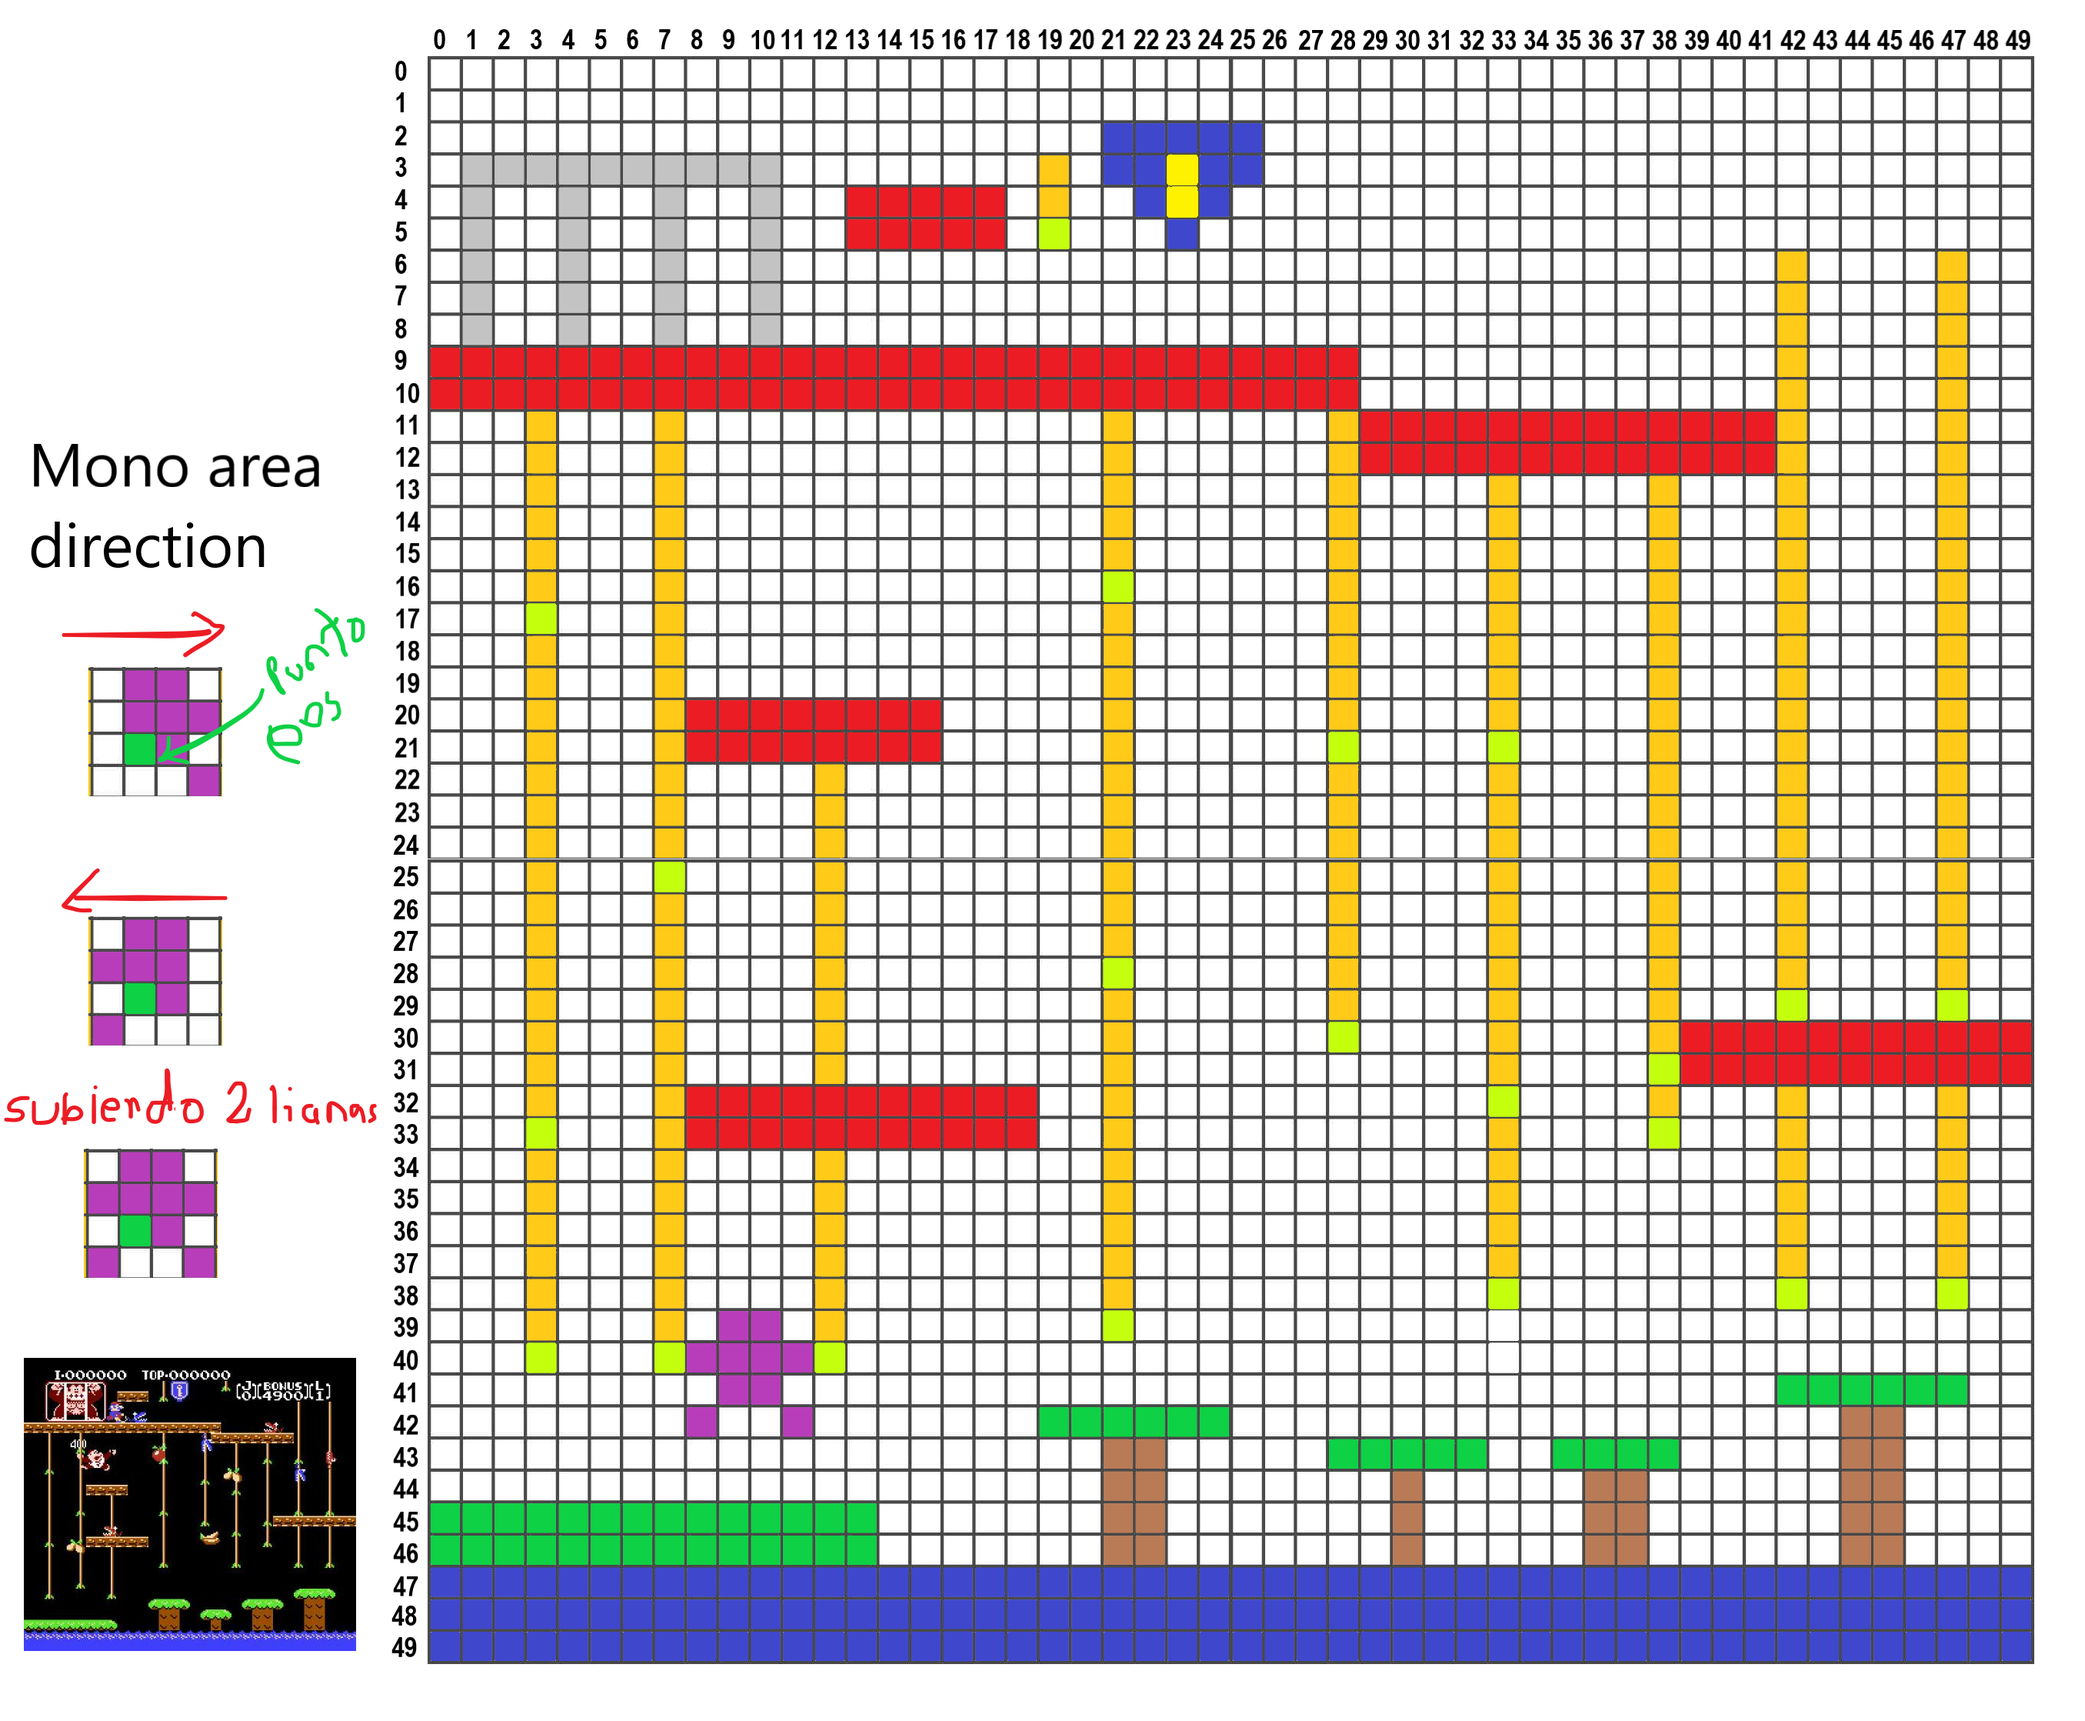
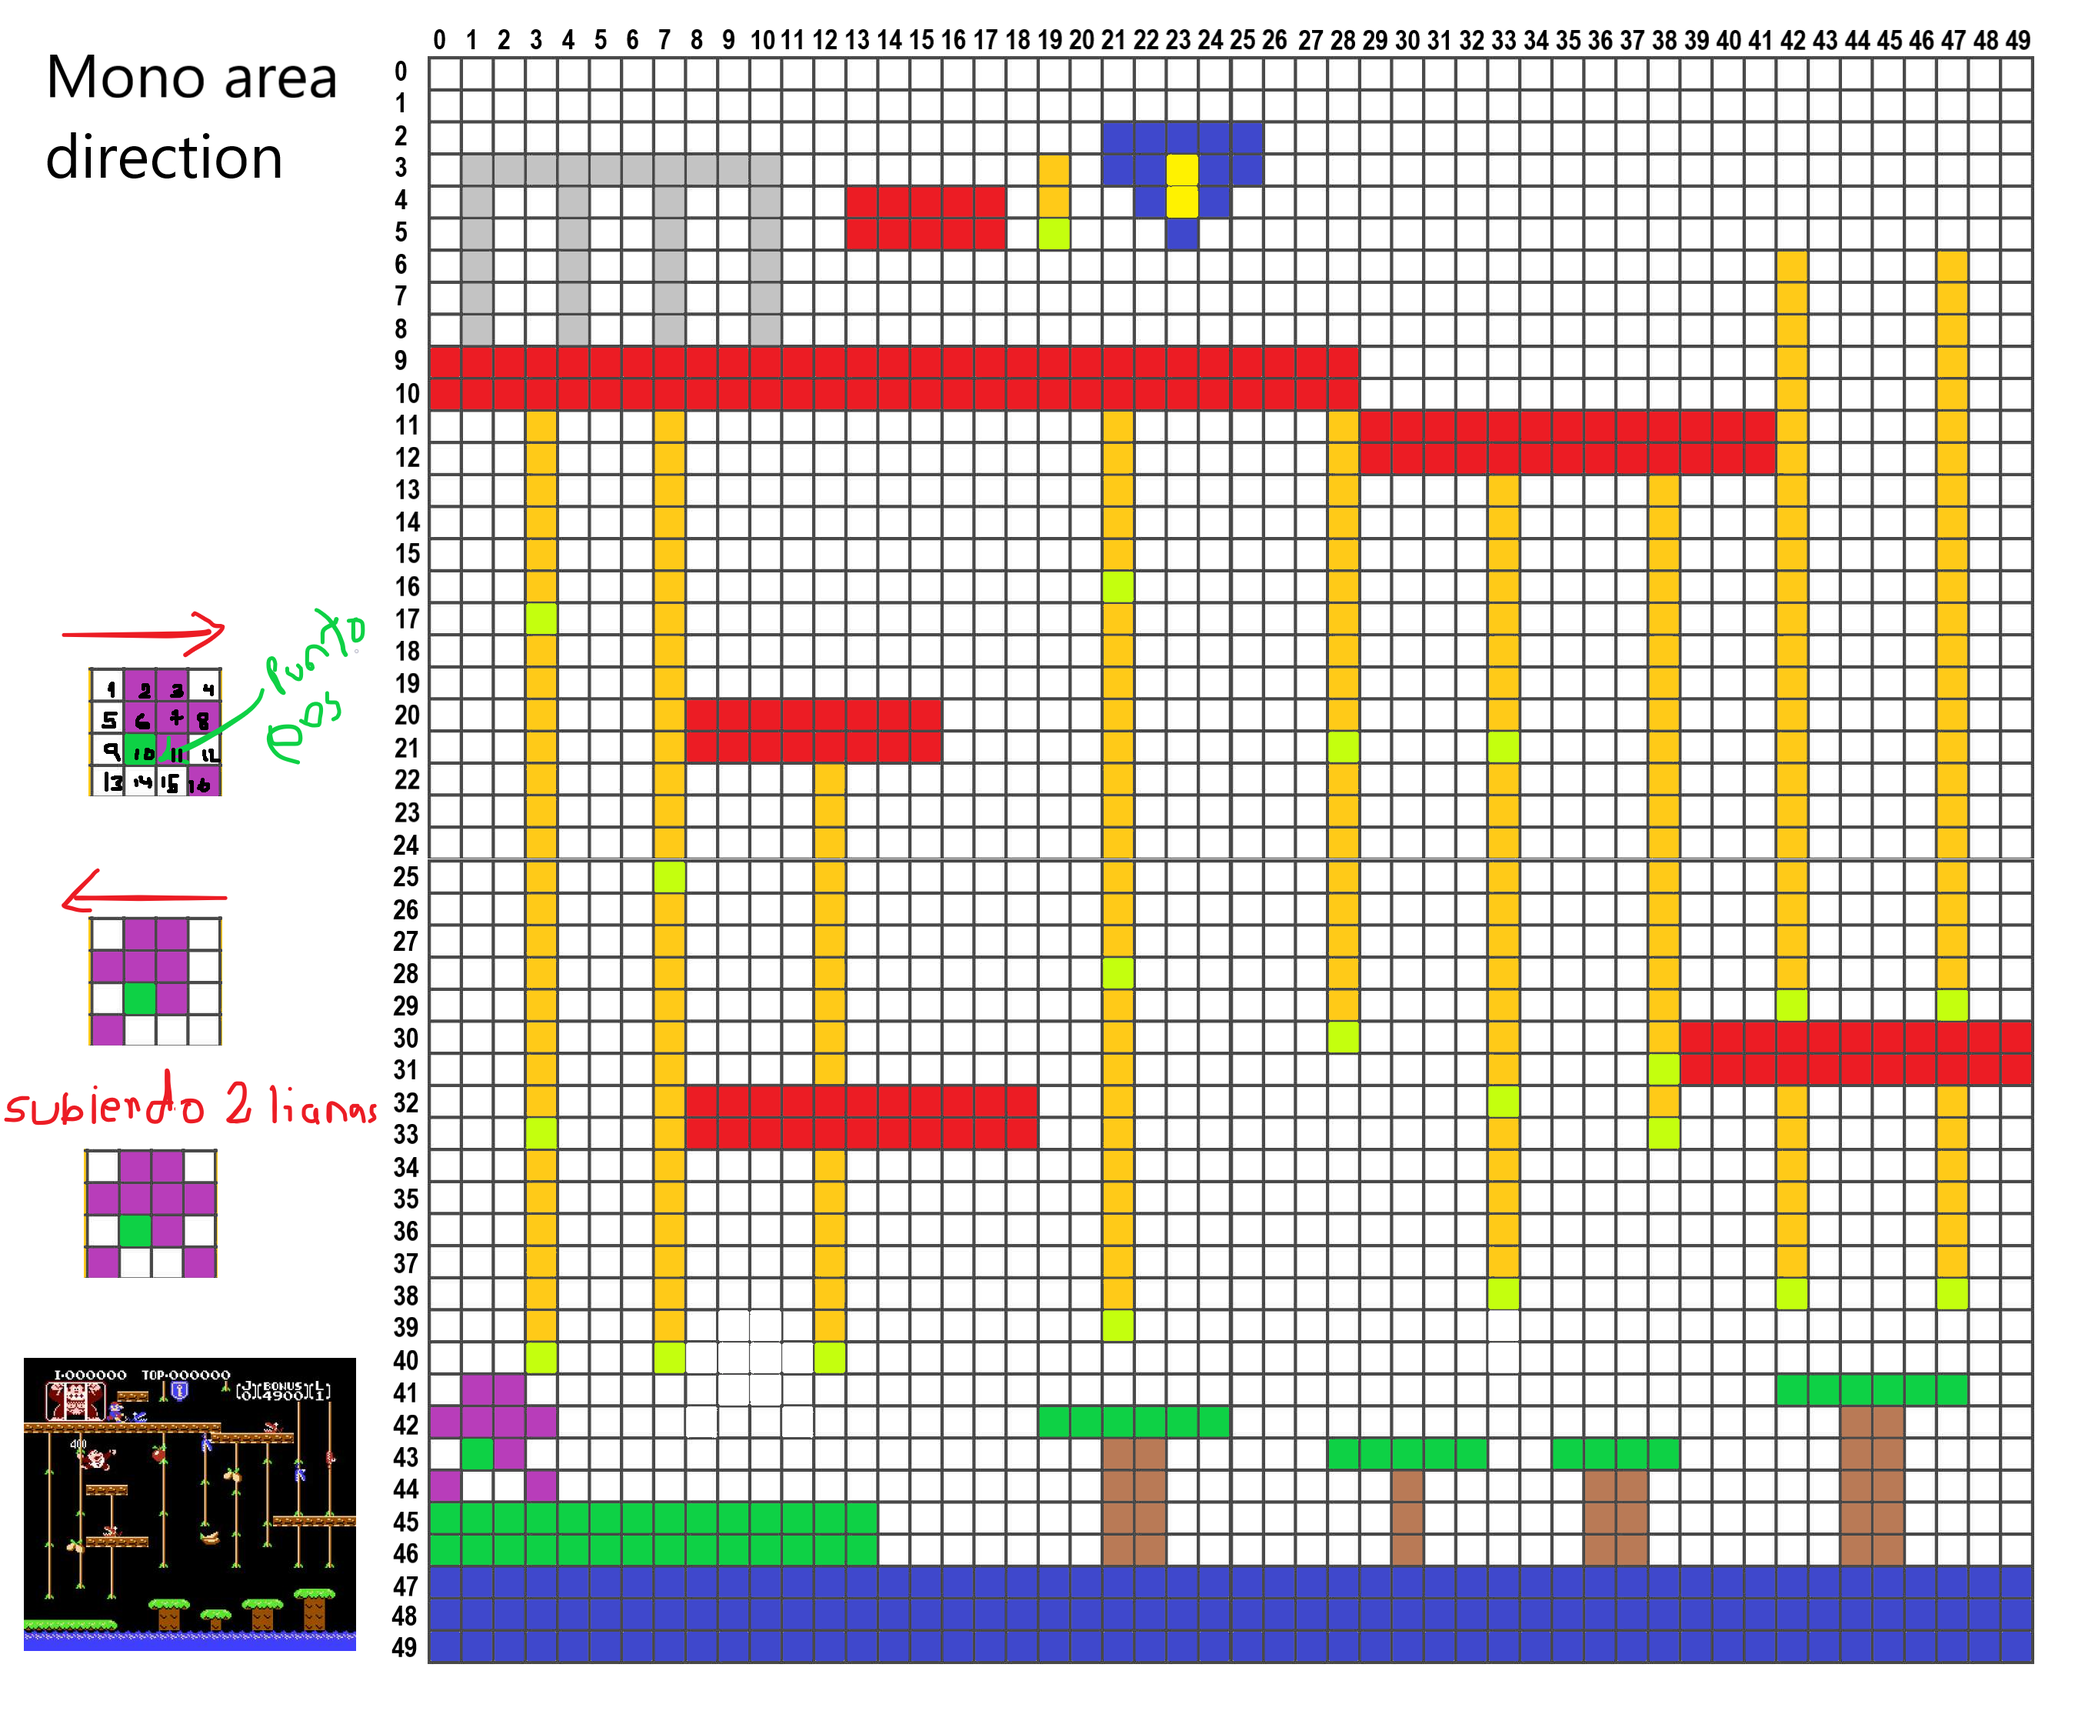
Se agrega el movimiento del mono en la matriz

diff --git a/Logica_Java/src/Models/Entidades/Movibles/Mono.java b/Logica_Java/src/Models/Entidades/Movibles/Mono.java
@@ -2,13 +2,144 @@ package Models.Entidades.Movibles;
 
 import Models.Entidades.Utils.PuntoMatriz;
 
+
+
 public class Mono extends EntidadMovible{
 
-    public Mono(String id, PuntoMatriz posicion, PuntoMatriz[] area, Direccion direccion) {
-        super(id, posicion, area, direccion);
+    private boolean isOnLiana;
+    private boolean isOnTwoLianas;
+    public static int TAMANO_AREA = 16;
+
+    public Mono(String id, PuntoMatriz posicion, Direccion direccion) {
+        super(id, posicion, new PuntoMatriz[TAMANO_AREA], direccion);
+        this.isOnLiana = false;
+        this.isOnTwoLianas = false;
     }
+
+    public void mover(Direccion direccion){
+
+        if(direccion == Direccion.DERECHA){
+            mover(new PuntoMatriz(this.posicion.getFila(), this.posicion.getColumna()+1));
+        }
+        if(direccion == Direccion.IZQUIERDA){
+            mover(new PuntoMatriz(this.posicion.getFila(), this.posicion.getColumna()-1));
+        }
+        if(direccion == Direccion.ARRIBA){
+            mover(new PuntoMatriz(this.posicion.getFila()-1, this.posicion.getColumna()));
+        }
+        if(direccion == Direccion.ABAJO){
+            mover(new PuntoMatriz(this.posicion.getFila()+1, this.posicion.getColumna()));
+        }
+
+    }
+
+    @Override
+    void actualizarDireccion(PuntoMatriz nuevaPosicion) {
+        //Izquierda o derecha
+        if(this.posicion.getFila() == nuevaPosicion.getFila()){
+            // Derecha
+            if(this.posicion.getColumna() < nuevaPosicion.getColumna()){
+                this.direccion = Direccion.DERECHA;
+            }else{ // Izquierda
+                this.direccion = Direccion.IZQUIERDA;
+            }
+        }
+    }
+
     @Override
     public void actualizarArea() {
 
+        // Centro del cuerpo
+        this.area[5] = new PuntoMatriz(this.posicion.getFila()-1,this.posicion.getColumna());
+        this.area[6] = new PuntoMatriz(this.posicion.getFila()-1,this.posicion.getColumna()+1);
+        this.area[9] = this.posicion;
+        this.area[10] = new PuntoMatriz(this.posicion.getFila(),this.posicion.getColumna()+1);
+        // cabeza
+        this.area[1] = new PuntoMatriz(this.posicion.getFila()-2,this.posicion.getColumna());
+        this.area[2] = new PuntoMatriz(this.posicion.getFila()-2,this.posicion.getColumna()+1);
+
+        //Campos siempre vacios
+        //this.area[0] = null;
+        //this.area[3] = null;
+        //this.area[8] = null;
+        //this.area[11] = null;
+        //this.area[13] = null;
+        //this.area[14] = null;
+
+        //Si el mono esta apunta hacia la derecha
+        if(this.direccion == Direccion.DERECHA) {
+            actualizarDireccionDerecha();
+        }
+        //Si el mono esta apunta hacia la izquierda
+        if(this.direccion == Direccion.IZQUIERDA) {
+            actualizarDireccionIzquierda();
+        }
+        if(isOnTwoLianas){
+            actualizarDireccionIzquierda();
+            actualizarDireccionDerecha();
+        }
+    }
+
+    private void actualizarDireccionDerecha(){
+        this.area[7] = new PuntoMatriz(this.posicion.getFila()-1,this.posicion.getColumna()+2);
+        this.area[15] = new PuntoMatriz(this.posicion.getFila()+1,this.posicion.getColumna()+2);
+        this.area[4] = null;
+        this.area[12] = null;
+    }
+
+    private void actualizarDireccionIzquierda(){
+        this.area[4] = new PuntoMatriz(this.posicion.getFila()-1,this.posicion.getColumna()-1);
+        this.area[12] = new PuntoMatriz(this.posicion.getFila()+1,this.posicion.getColumna()-1);
+        this.area[7] = null;
+        this.area[15] = null;
+    }
+
+    /**#################################################################################################
+     * SETTERS AND GETTERS
+     * #################################################################################################
+     */
+
+    public boolean isOnLiana() {
+        return isOnLiana;
+    }
+
+    public void setOnLiana(boolean onLiana) {
+        isOnLiana = onLiana;
     }
 }
+
+
+
+// Cuerpo del mono
+//
+// Orden
+//
+// |0 |1 |2 |3 |
+// |4 |5 |6 |7 |
+// |8 |9 |10|11|
+// |12|13|14|15|
+//
+// Direccion derecha  ->
+//
+// |⬜|⬛|⬛|⬜|
+// |⬜|⬛|⬛|⬛|
+// |⬜|⬛|⬛|⬜|
+// |⬜|⬜|⬜|⬛|
+//
+//
+// Direccion izquierda  ->
+//
+// |⬜|⬛|⬛|⬜|
+// |⬛|⬛|⬛|⬜|
+// |⬜|⬛|⬛|⬜|
+// |⬛|⬜|⬜|⬜|
+//
+//
+// Direccion subiendo lianas
+//
+// |⬜|⬛|⬛|⬜|
+// |⬛|⬛|⬛|⬛|
+// |⬜|⬛|⬛|⬜|
+// |⬛|⬜|⬜|⬛|
+//
+//

diff --git a/Logica_Java/src/Logica/GameManager.java b/Logica_Java/src/Logica/GameManager.java
@@ -21,7 +21,7 @@ public class GameManager {
         return single_instance;
     }
 
-    private EntidadMovible donkeyKongJr;
+    private Mono donkeyKongJr;
     private EntidadEstatica donkeyKong;
     private ArrayList<Cocodrilo> cocodrilos;
     private ArrayList<Fruta> frutas;
@@ -29,25 +29,91 @@ public class GameManager {
     private EntidadEstatica[] plataformas;
 
     private Entidad[][] matriz;
+    public static int TAMANO_MATRIZ = 50;
+    public static PuntoMatriz POSICION_INICIAL = new PuntoMatriz(43,1);
 
     private GameManager(){
-        donkeyKongJr = new Mono("donkeyKongJr", null, null, null);
-        donkeyKong = new EntidadEstatica("donkeyKong", null, null, EntidadEstatica.TipoSuperficie.DONKEYKONG );
+        donkeyKongJr = new Mono("dkjr", null, null);
+        donkeyKong = new EntidadEstatica("dk", null, null, EntidadEstatica.TipoSuperficie.DONKEYKONG );
         cocodrilos =  new ArrayList<>();
         frutas = new ArrayList<>();
         lianas = new EntidadEstatica[10];
         plataformas = new EntidadEstatica[6];
-        matriz = new Entidad[50][50];
+        setCondicionesIniciales();
     }
 
     private void setCondicionesIniciales(){
-        donkeyKongJr.setPosicion(new PuntoMatriz(43,1));
-        //PuntoMatriz[] areaDonkeyKongJr = {new PuntoMatriz(44,0)}
-        //donkeyKongJr.setArea();
+        donkeyKongJr.setPosicion(POSICION_INICIAL);
+        donkeyKongJr.setDireccion(EntidadMovible.Direccion.DERECHA);
+        donkeyKongJr.actualizarArea();
+
+        actualizarMatriz();
+    }
+
+    private void actualizarMatriz(){
+        matriz = new Entidad[TAMANO_MATRIZ][TAMANO_MATRIZ];
+        actualizarMono();
+
+    }
+
+    private void actualizarMono(){
+        for(int i = 0; i < Mono.TAMANO_AREA; i++){
+            if(donkeyKongJr.getArea()[i] != null){
+                matriz[donkeyKongJr.getArea()[i].getFila()][donkeyKongJr.getArea()[i].getColumna()] = donkeyKongJr;
+            }
+        }
+    }
+
+    public void moverMono(EntidadMovible.Direccion direccion){
+        donkeyKongJr.mover(direccion);
+        actualizarMatriz();
+    }
+
+
+    public void imprimirMatriz(){
+
+        for(int i = 0; i < TAMANO_MATRIZ; i++){
+            for(int e = 0; e < TAMANO_MATRIZ; e++){
+                if(matriz[i][e] == null){
+                    System.out.print(" ⬜ ");
+                }else{
+                    System.out.print(" ⬛ ");
+                }
+            }
+            System.out.println();
+        }
+        System.out.println();
     }
 
 
 
+    public static void main(String[] args) {
 
+        GameManager gameManager = GameManager.getInstance();
+        gameManager.imprimirMatriz();
+
+        System.out.println("DERECHA");
+        for(int i = 0; i < 10; i++){
+            gameManager.moverMono(EntidadMovible.Direccion.DERECHA);
+            gameManager.imprimirMatriz();
+        }
+        System.out.println("ARRIBA");
+        for(int i = 0; i < 10; i++){
+            gameManager.moverMono(EntidadMovible.Direccion.ARRIBA);
+            gameManager.imprimirMatriz();
+        }
+        System.out.println("IZQUIERDA");
+        for(int i = 0; i < 10; i++){
+            gameManager.moverMono(EntidadMovible.Direccion.IZQUIERDA);
+            gameManager.imprimirMatriz();
+        }
+        System.out.println("ABAJO");
+        for(int i = 0; i < 10; i++){
+            gameManager.moverMono(EntidadMovible.Direccion.ABAJO);
+            gameManager.imprimirMatriz();
+        }
+
+
+    }
 
 }

diff --git a/Logica_Java/src/Models/Entidades/Movibles/Cocodrilo.java b/Logica_Java/src/Models/Entidades/Movibles/Cocodrilo.java
@@ -13,14 +13,34 @@ public class Cocodrilo extends EntidadMovible {
     protected double velocidad;
     protected TipoCocodrilo tipoCocodrilo;
 
-    public Cocodrilo(String id, PuntoMatriz posicion, PuntoMatriz[] area, Direccion direccion, double velocidad) {
-        super(id, posicion, area, direccion);
+    public Cocodrilo(String id, PuntoMatriz posicion, Direccion direccion, double velocidad) {
+        super(id, posicion, new PuntoMatriz[4], direccion);
         this.velocidad = velocidad;
     }
 
     @Override
     public void mover(PuntoMatriz nuevaPosicion) {
 
+    }
+
+    @Override
+    void actualizarDireccion(PuntoMatriz nuevaPosicion) {
+        //Izquierda o derecha
+        if(this.posicion.getFila() == nuevaPosicion.getFila()){
+            // Derecha
+            if(this.posicion.getColumna() < nuevaPosicion.getColumna()){
+                this.direccion = Direccion.DERECHA;
+            }else{ // Izquierda
+                this.direccion = Direccion.IZQUIERDA;
+            }
+        }else{ //Arriba o abajo
+            // Abajo
+            if(this.posicion.getFila() < nuevaPosicion.getFila()){
+                this.direccion = Direccion.ABAJO;
+            }else{ // Arriba
+                this.direccion = Direccion.ARRIBA;
+            }
+        }
     }
 
     @Override

diff --git a/Logica_Java/src/Models/Entidades/Movibles/EntidadMovible.java b/Logica_Java/src/Models/Entidades/Movibles/EntidadMovible.java
@@ -25,25 +25,7 @@ public abstract class EntidadMovible extends Entidad {
         actualizarArea();
     }
 
-    private void actualizarDireccion(PuntoMatriz nuevaPosicion){
-
-        //Izquierda o derecha
-        if(this.posicion.getFila() == nuevaPosicion.getFila()){
-            // Derecha
-            if(this.posicion.getColumna() < nuevaPosicion.getColumna()){
-                this.direccion = Direccion.DERECHA;
-            }else{ // Izquierda
-                this.direccion = Direccion.IZQUIERDA;
-            }
-        }else{ //Arriba o abajo
-            // Abajo
-            if(this.posicion.getFila() < nuevaPosicion.getFila()){
-                this.direccion = Direccion.ABAJO;
-            }else{ // Arriba
-                this.direccion = Direccion.ARRIBA;
-            }
-        }
-    }
+    abstract void actualizarDireccion(PuntoMatriz nuevaPosicion);
 
     public abstract void actualizarArea();
 

diff --git a/Logica_Java/src/Models/Entidades/Movibles/Fruta.java b/Logica_Java/src/Models/Entidades/Movibles/Fruta.java
@@ -12,10 +12,15 @@ public class Fruta extends EntidadMovible{
     private double puntos;
     private TipoFruta tipoFruta;
 
-    public Fruta(String id, PuntoMatriz posicion, PuntoMatriz[] area, Direccion direccion, double puntos, TipoFruta tipoFruta) {
-        super(id, posicion, area, direccion);
+    public Fruta(String id, PuntoMatriz posicion, Direccion direccion, double puntos, TipoFruta tipoFruta) {
+        super(id, posicion, new PuntoMatriz[4], direccion);
         this.puntos = puntos;
         this.tipoFruta = tipoFruta;
+    }
+
+    @Override
+    void actualizarDireccion(PuntoMatriz nuevaPosicion) {
+
     }
 
     @Override

diff --git a/Logica_Java/src/tests/Main.java b/Logica_Java/src/tests/Main.java
@@ -1,9 +1,9 @@
 package tests;
 
+import Logica.GameManager;
+
 public class Main {
 
-    public static void main(String[] args) {
 
-    }
 
 }
